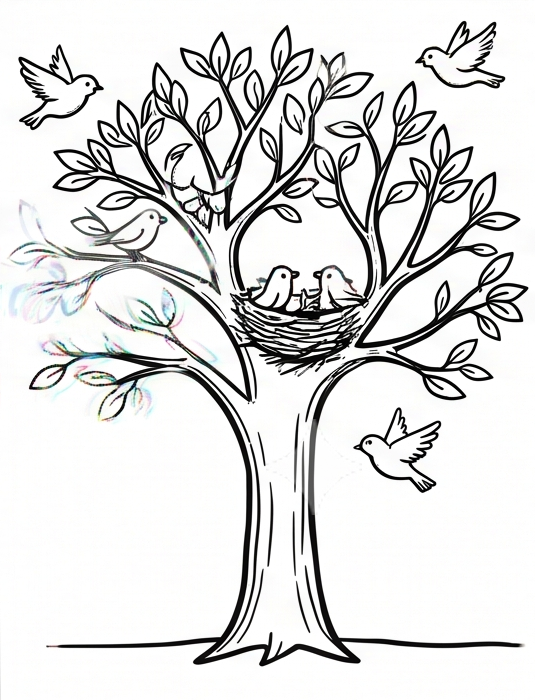
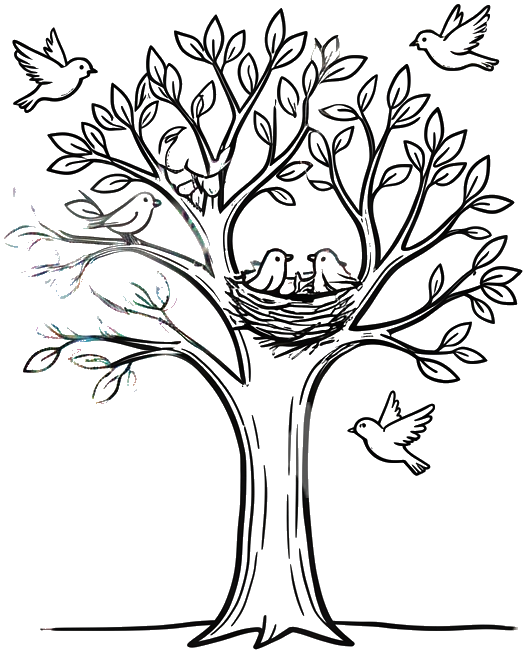
refactor(progress): show growth tree as line art on the shared board
Key PNG backgrounds to transparent ink, crop out canvas border artifacts, and embed the viz on the session board without the card chrome, labels, or oversized footprint.

Changed region(s): [[0.0, 0.0, 1.0, 1.0], [0.0304, 0.2752, 0.0607, 0.3058]]

diff --git a/frontend/src/styles/growth-tree.css b/frontend/src/styles/growth-tree.css
@@ -1,48 +1,23 @@
-/* ─── Growth tree progress panel (session, bottom-right) ─────────────── */
+/* ─── Growth tree on shared board (bottom-right, line art only) ──────── */
 
 .growth-tree-panel {
-  position: fixed;
-  right: 16px;
-  bottom: 88px;
-  z-index: 11;
-  width: min(220px, calc(100vw - 32px));
-  display: grid;
-  gap: 8px;
-  padding: 10px 10px 12px;
-  border: 1px solid var(--border);
-  border-radius: var(--radius-lg);
-  background:
-    linear-gradient(165deg, rgba(251, 250, 246, 0.96), rgba(247, 244, 238, 0.92)),
-    var(--mb-paper);
-  box-shadow: var(--shadow-lifted);
+  position: absolute;
+  right: 18px;
+  bottom: 18px;
+  z-index: 2;
+  width: min(128px, 22vw);
+  padding: 0;
+  border: none;
+  background: none;
+  box-shadow: none;
   pointer-events: none;
   user-select: none;
-}
-
-.growth-tree-head {
-  display: grid;
-  gap: 2px;
-}
-
-.growth-tree-title {
-  font-size: 12px;
-  font-weight: 750;
-  letter-spacing: 0.01em;
-  color: var(--text);
-}
-
-.growth-tree-meta {
-  font-size: 11px;
-  color: var(--text-3);
 }
 
 .growth-tree-frame {
   position: relative;
   aspect-ratio: 2 / 3;
   overflow: hidden;
-  border-radius: 10px;
-  background: #faf7f2;
-  box-shadow: inset 0 0 0 1px rgba(32, 54, 47, 0.06);
 }
 
 .growth-tree-art {
@@ -52,6 +27,7 @@
   object-fit: contain;
   object-position: center bottom;
   transform-origin: center bottom;
+  opacity: 0.88;
 }
 
 .growth-tree-art--revealing {
@@ -83,18 +59,12 @@
 @keyframes growth-tree-sketch-reveal {
   from {
     clip-path: inset(100% 0 0 0);
-    filter: contrast(1.12) brightness(1.03);
-    opacity: 0.92;
-  }
-
-  70% {
-    filter: contrast(1.04) brightness(1.01);
+    opacity: 0.45;
   }
 
   to {
     clip-path: inset(0 0 0 0);
-    filter: none;
-    opacity: 1;
+    opacity: 0.88;
   }
 }
 
@@ -113,12 +83,12 @@
   0%,
   100% {
     transform: rotate(-0.2deg) scale(1);
-    filter: contrast(1);
+    opacity: 0.82;
   }
 
   50% {
     transform: rotate(0.2deg) scale(1.006);
-    filter: contrast(1.06);
+    opacity: 0.92;
   }
 }
 
@@ -145,24 +115,14 @@
 
   .growth-tree-art--revealing {
     clip-path: inset(0 0 0 0);
-    filter: none;
-    opacity: 1;
+    opacity: 0.88;
   }
 }
 
 @media (max-width: 720px) {
   .growth-tree-panel {
-    right: 10px;
-    bottom: 82px;
-    width: 148px;
-    padding: 8px;
-  }
-
-  .growth-tree-title {
-    font-size: 11px;
-  }
-
-  .growth-tree-meta {
-    font-size: 10px;
+    right: 12px;
+    bottom: 12px;
+    width: 96px;
   }
 }

diff --git a/frontend/src/components/progress/GrowthTreePanel.tsx b/frontend/src/components/progress/GrowthTreePanel.tsx
@@ -33,23 +33,14 @@ export default function GrowthTreePanel() {
   }, [growth.stageIndex, growth.stageT]);
 
   const stage = GROWTH_STAGES[displayIndex];
-  const summary = snapshot?.summary;
-  const progressLabel =
-    summary && summary.total > 0
-      ? `${summary.mastered} of ${summary.total} mastered`
-      : "Ready to grow";
 
   return (
-    <aside
+    <div
       className="growth-tree-panel"
-      aria-label="Session progress tree"
+      aria-hidden="true"
       data-stage={stage.id}
       data-working={working || undefined}
     >
-      <header className="growth-tree-head">
-        <span className="growth-tree-title">{stage.label}</span>
-        <span className="growth-tree-meta">{progressLabel}</span>
-      </header>
       <div className="growth-tree-frame">
         <img
           key={displayIndex}
@@ -61,6 +52,6 @@ export default function GrowthTreePanel() {
         />
         {working && <span className="growth-tree-sketch-shimmer" aria-hidden="true" />}
       </div>
-    </aside>
+    </div>
   );
 }

diff --git a/frontend/src/components/session/SharedReasoningWorkspace.tsx b/frontend/src/components/session/SharedReasoningWorkspace.tsx
@@ -25,6 +25,7 @@ import StickyNoteLayer from "./StickyNoteLayer";
 import TextbookOverlay from "./TextbookOverlay";
 import TranscriptOverlay from "./TranscriptOverlay";
 import TutorObjectLayer from "./TutorObjectLayer";
+import SessionProgressBridge from "../progress/SessionProgressBridge";
 import VoiceComposer from "./VoiceComposer";
 import {
   initialWorkspaceState,
@@ -397,6 +398,7 @@ export default function SharedReasoningWorkspace({
             onUndo={undoActiveInk}
             onClear={clearActiveInk}
           />
+          <SessionProgressBridge />
           <CanvasViewport
             boardRef={boardRef}
             viewport={state.viewport}

diff --git a/frontend/src/pages/SessionPage.tsx b/frontend/src/pages/SessionPage.tsx
@@ -9,7 +9,6 @@ import {
 import { getActiveDocId } from "../lib/activeDoc";
 import SessionTopbar from "../components/session/SessionTopbar";
 import SharedReasoningWorkspace from "../components/session/SharedReasoningWorkspace";
-import SessionProgressBridge from "../components/progress/SessionProgressBridge";
 import "../styles/session.css";
 
 interface Connection {
@@ -102,7 +101,6 @@ export default function SessionPage() {
               </button>
             </div>
           )}
-          <SessionProgressBridge />
           <SharedReasoningWorkspace
             status={status}
             activeDocId={activeDocId}
